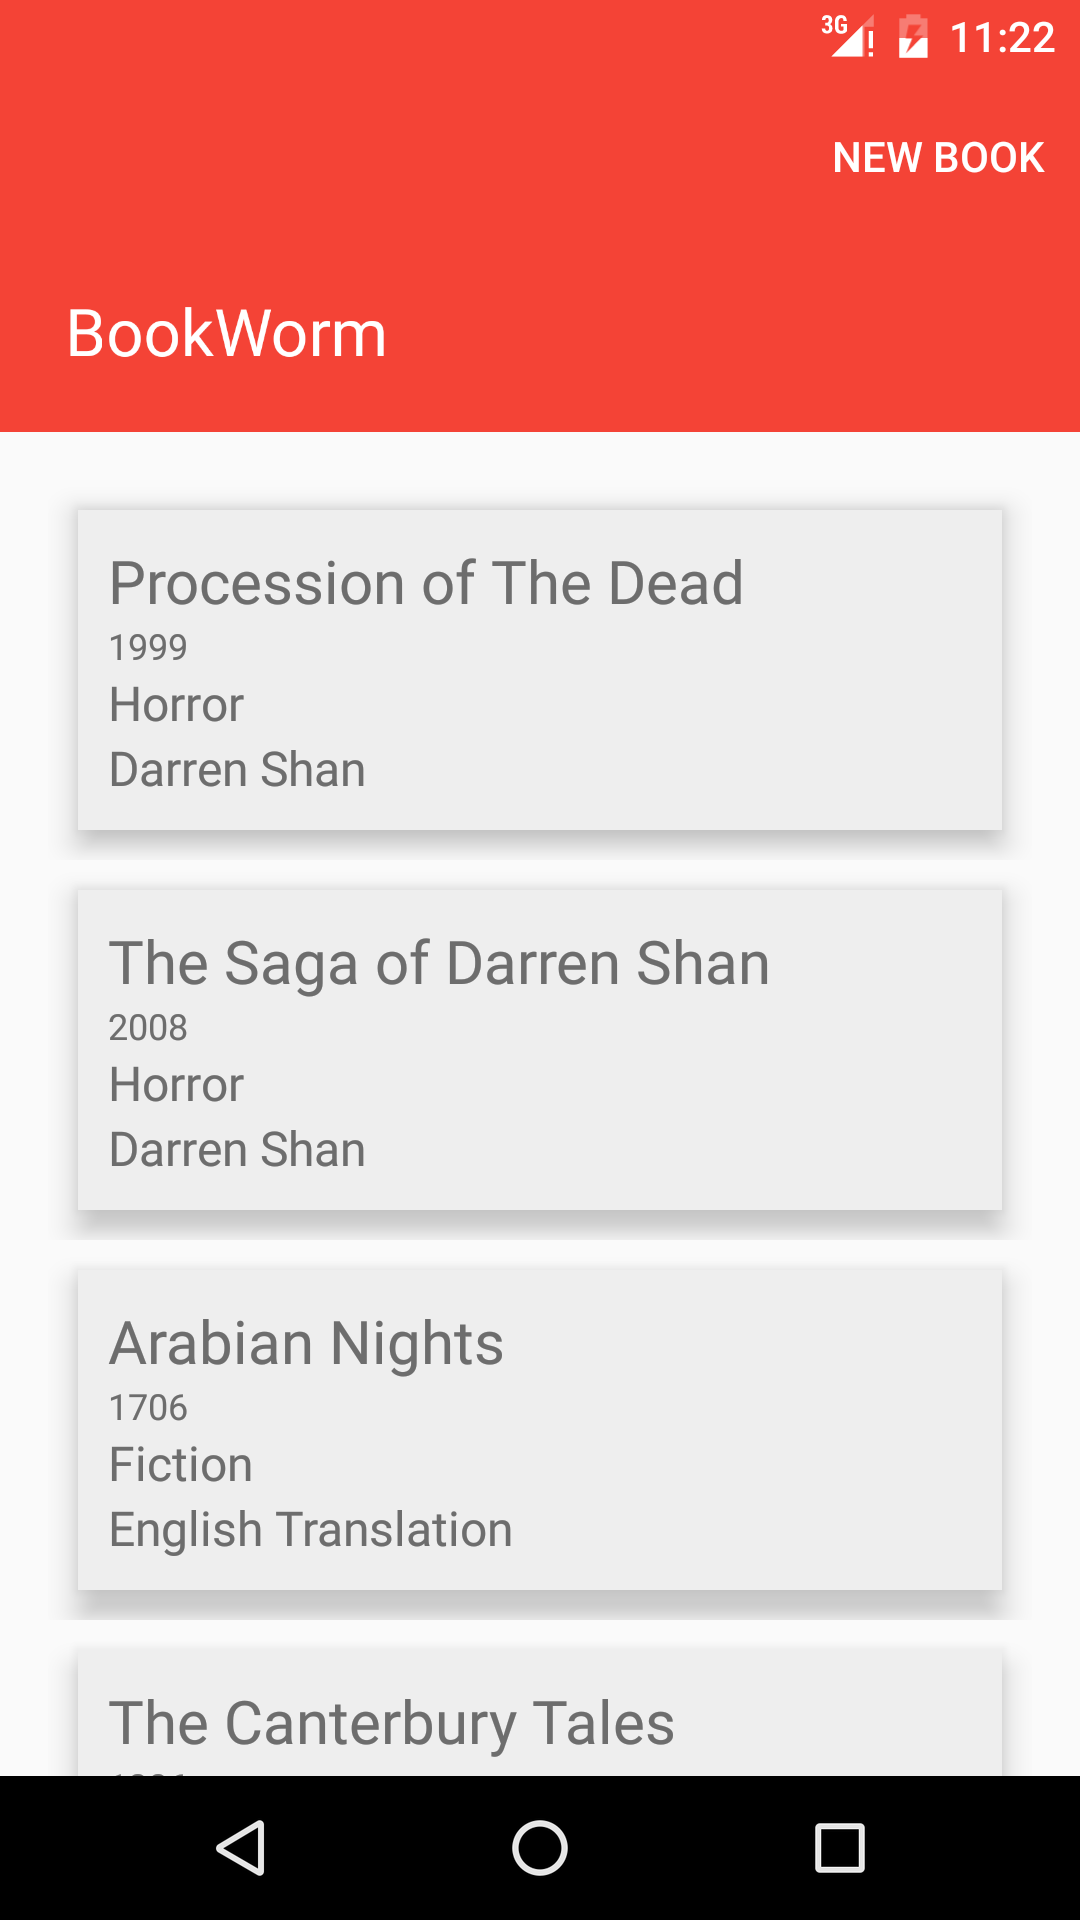
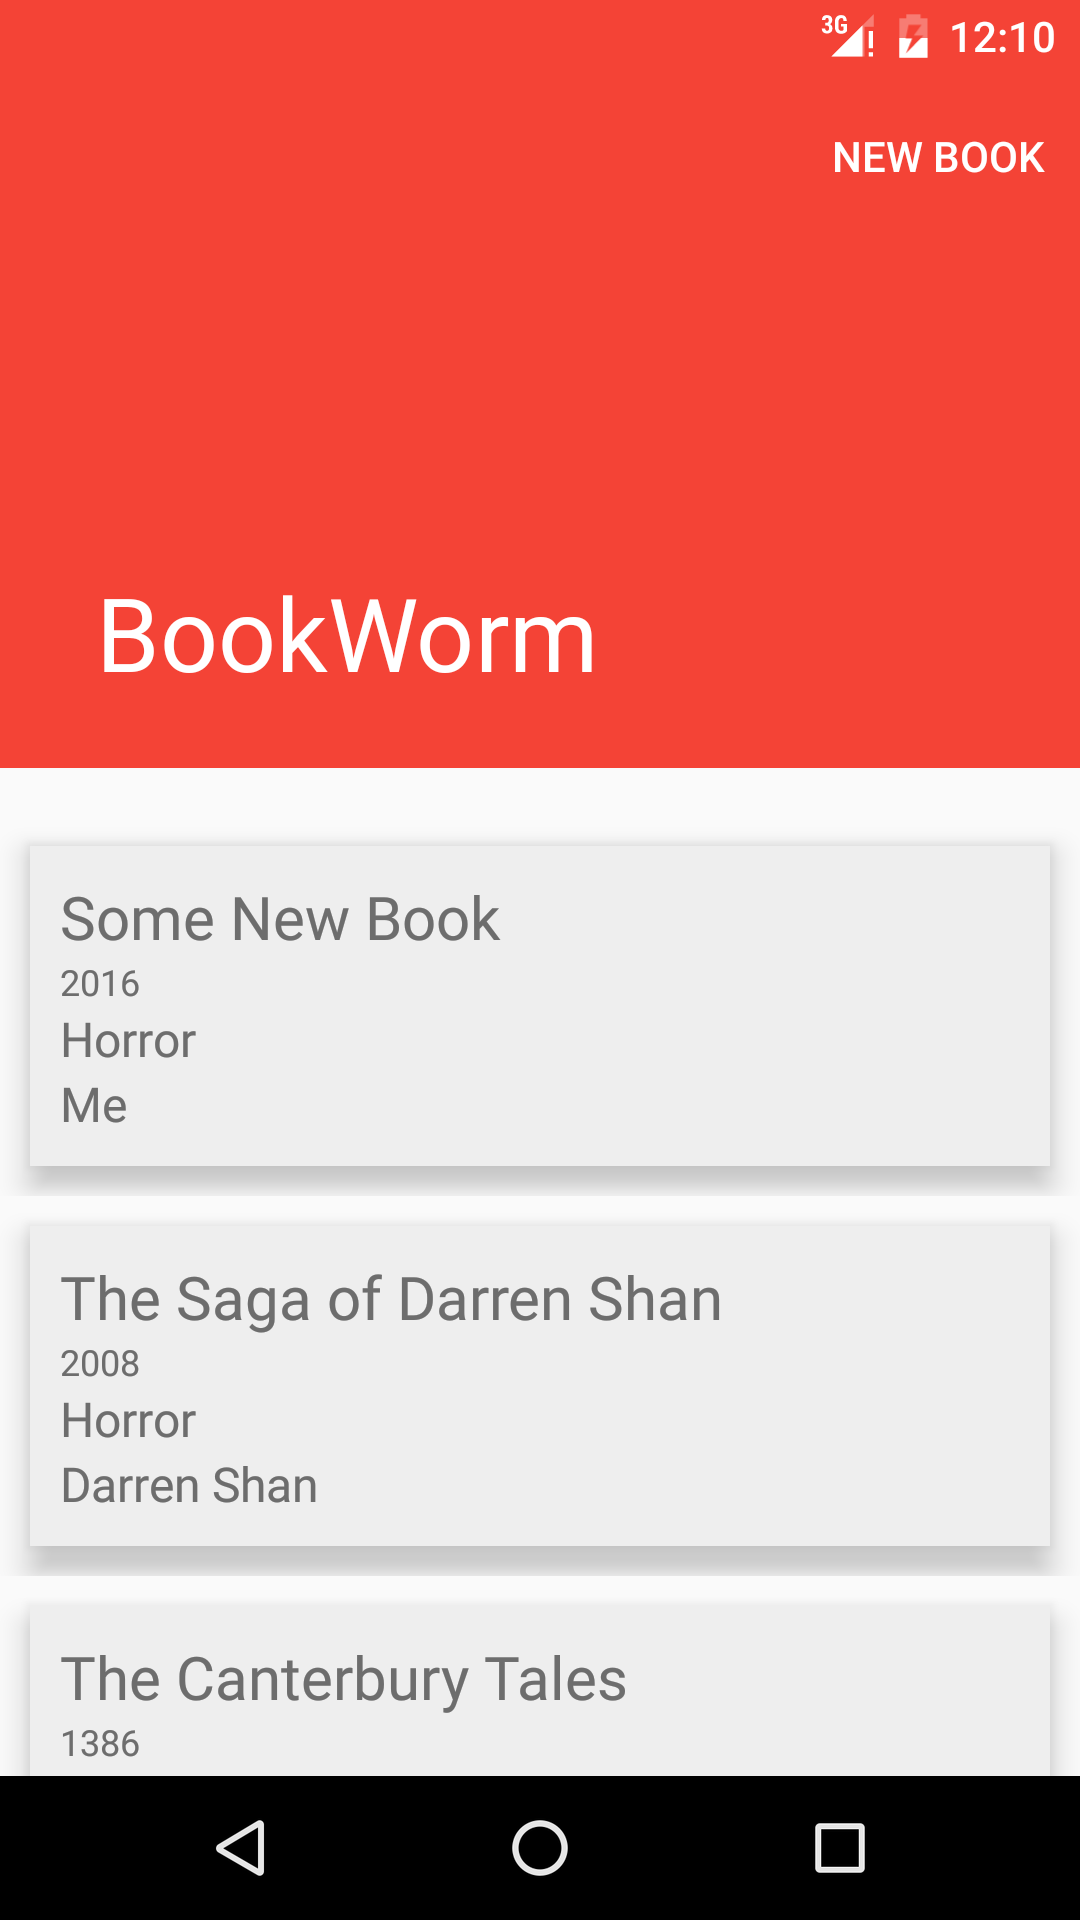
updated screenshots based on new views.

diff --git a/README.md b/README.md
@@ -25,3 +25,4 @@ There is a pre-configured gradle wrapper included in the project. The project ca
 <img src="img/screenshot1.png" alt="Screenshot 1" width="200px" />
 <img src="img/screenshot2.png" alt="Screenshot 2" width="200px" />
 <img src="img/screenshot3.png" alt="Screenshot 3" width="200px" />
+<img src="img/screenshot4.png" alt="Screenshot 4" width="200px" />
